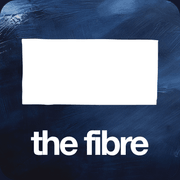
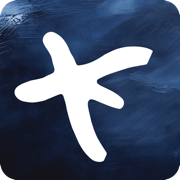
v1.71.0 — the tab wears the current mark, and Anthropic is named (staging)
v0.129.0 redrew the brand tiles and did not regenerate the per-app PWA icons
cut from the same artwork, so apps/web and apps/connections had been serving
22 September's icons — the white block with the wordmark under it. Regenerated
from the tiles, not from the source drive.

make-app-icons.sh reads the maskable ground from the source's centre pixel,
which is the white mark on these, so the first run put a white ring around a
navy tile — the failure its own comment documents. Sampled the top-centre
strip instead: clear of the mark and of the rounded transparent corners, which
an average over the whole top edge pulls in.

Removed apps/web/app/icon.svg, a third copy of the brand from 1 September. It
reached nobody, because the layout sets icons explicitly, but it answered 200
and looked authoritative to whoever next asked why the tab was wrong.

Named Anthropic as a sub-processor. The policy covered the assistant you bring
— correctly, as your processor — but the in-app assistant has us sending the
data, and the list said there is nobody else. Switching it on in production
before saying so would have been a disclosure gap with paying clients on the
platform.

diff --git a/apps/connections/public/sw.js b/apps/connections/public/sw.js
@@ -48,12 +48,21 @@
 // Sjoerd: *"the icon of connect (if I download it for my mobile) is the old
 // one."*
 //
+// v4 (2026-09-26): the icons again, and for the SAME reason one rung up.
+// v0.129.0 redrew the brand tiles — the SPoT the favicons point at — without
+// regenerating the per-app PWA icons cut from them, so apps/web and
+// apps/connections had been serving 22 September's artwork. Regenerating them
+// changed two precached files, and without this bump every installed phone
+// would have kept the old one out of `connections-shell-v3`, exactly as it
+// did in September. The freshness test caught it this time rather than
+// Sjoerd's home screen.
+//
 // The comment above used to say "whenever /offline.html changes", which was
 // true and incomplete: it named one of the three precached files, so the
 // other two could change unnoticed. `sw-freshness.test.ts` now fails when a
 // precached file is committed after this one, which is the check that would
 // have caught it.
-const VERSION = 'v3';
+const VERSION = 'v4';
 const SHELL = `connections-shell-${VERSION}`;
 const STATIC = `connections-static-${VERSION}`;
 const PRECACHE = ['/offline.html', '/icon-192.png', '/apple-touch-icon.png'];

diff --git a/packages/shared/src/ui/legal-docs.tsx b/packages/shared/src/ui/legal-docs.tsx
@@ -401,6 +401,14 @@ export function PrivacyDoc() {
           Only if you choose it: signing in with a Google account, or connecting your calendar so
           Fibre Meet can read your availability. Disconnecting revokes it.
         </Row>
+        <Row term="Anthropic">
+          Only where the in-app assistant is switched on for your workspace (Settings →
+          Assistant). It is sent the titles, dates, statuses and counts of the things you ask
+          about, and what you type to it — never who registered for anything. It is not sent
+          anything when nobody is using it, and a workspace with the assistant off sends nothing
+          at all. This applies whether the assistant runs on our key or on one your workspace
+          pasted in; the difference is only who is billed.
+        </Row>
       </Rows>
       <P>
         One more case is yours, not ours. If you connect your own AI assistant to your account

diff --git a/apps/web/lib/version.ts b/apps/web/lib/version.ts
@@ -5,4 +5,4 @@
  * Bump it in the same commit as the CHANGELOG entry and the package.json
  * files — see CLAUDE.md, "Version bumps".
  */
-export const VERSION = '1.70.0';
+export const VERSION = '1.71.0';

diff --git a/CHANGELOG.md b/CHANGELOG.md
@@ -6,6 +6,46 @@ The displayed version comes from the `VERSION` constant in `apps/web/lib/version
 
 ## [Unreleased]
 
+## [1.71.0] — 2026-09-26 — the tab wears the current mark, and Anthropic is named
+
+Two things found while answering "can you give me my key", neither of them the
+key.
+
+**The browser tab was still the old Fibre icon.** Sjoerd: *"The icon in the
+brower is the old fibre logo"* — a white block with the wordmark under it,
+which is what the tile looked like before v0.129.0 took the word off. That
+release redrew `public/brand/apps/*.png`, the SPoT every app's favicon points
+at, and did NOT regenerate the per-app PWA icons in `apps/*/public`, which are
+separate files cut from the same artwork. `apps/web` and `apps/connections`
+had been serving September 22nd's icons ever since; `apps/my` was already
+current.
+
+Regenerated from the brand tiles rather than from the source drive, so the
+thing on screen is derived from the thing the launcher shows.
+
+**`make-app-icons.sh` needed its own escape hatch used.** It reads the
+maskable icon's ground from the source's CENTRE pixel, which is right for
+full-bleed artwork and wrong for these: the centre is the white mark, so the
+first run produced a white ring around a navy tile — precisely the failure its
+own comment documents, complete with the `ICON_PAD` override it tells you to
+use. Sampled the top-centre strip instead: clear of the mark AND of the
+rounded transparent corners, which an average over the whole top edge pulls in
+(that attempt produced a washed-out `#949dae`).
+
+**`apps/web/app/icon.svg` is gone.** A third copy of the brand, a yellow tile
+with letters, last touched on 1 September. It was not reaching anybody — the
+layout sets `icons` explicitly, so the PNGs win — but it answered 200 and
+looked authoritative to the next person who went looking for why the tab was
+wrong.
+
+**Anthropic is named as a sub-processor.** The policy already covered the
+assistant you bring — correctly, as YOUR processor rather than our
+sub-processor. The in-app assistant is the other case: The Fibre sends the
+data itself, so Anthropic is ours, and the list said *"There is nobody else."*
+Switching it on in production before saying so would have been a disclosure
+gap on a platform with paying clients. Written to cover both keys, since which
+one is used changes who is billed and nothing else.
+
 ## [1.70.0] — 2026-09-26 — naming a person means picking one, everywhere it happens
 
 Sjoerd, twice within a few minutes: *"the forst admin field is not a single
